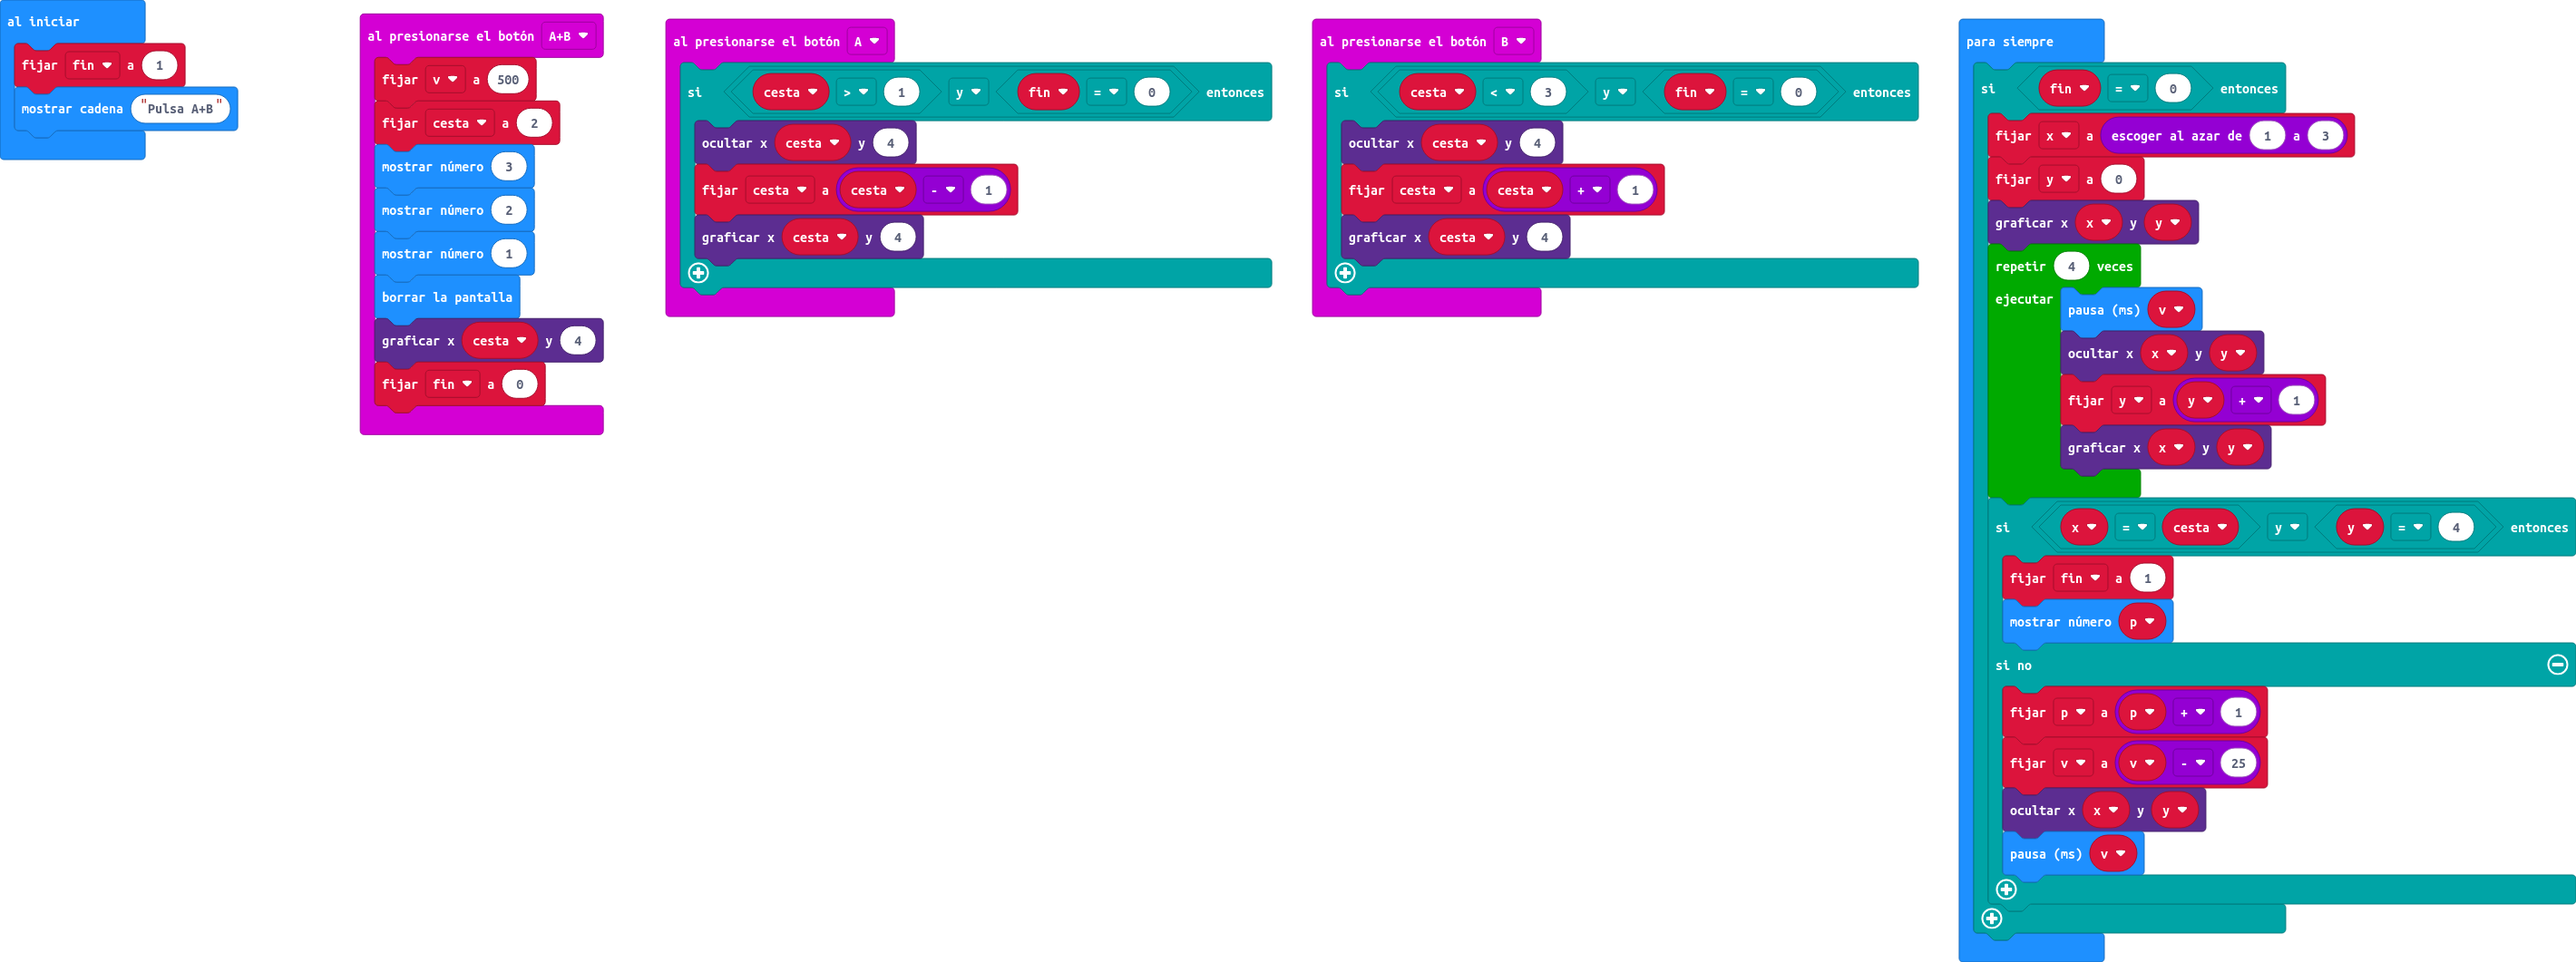
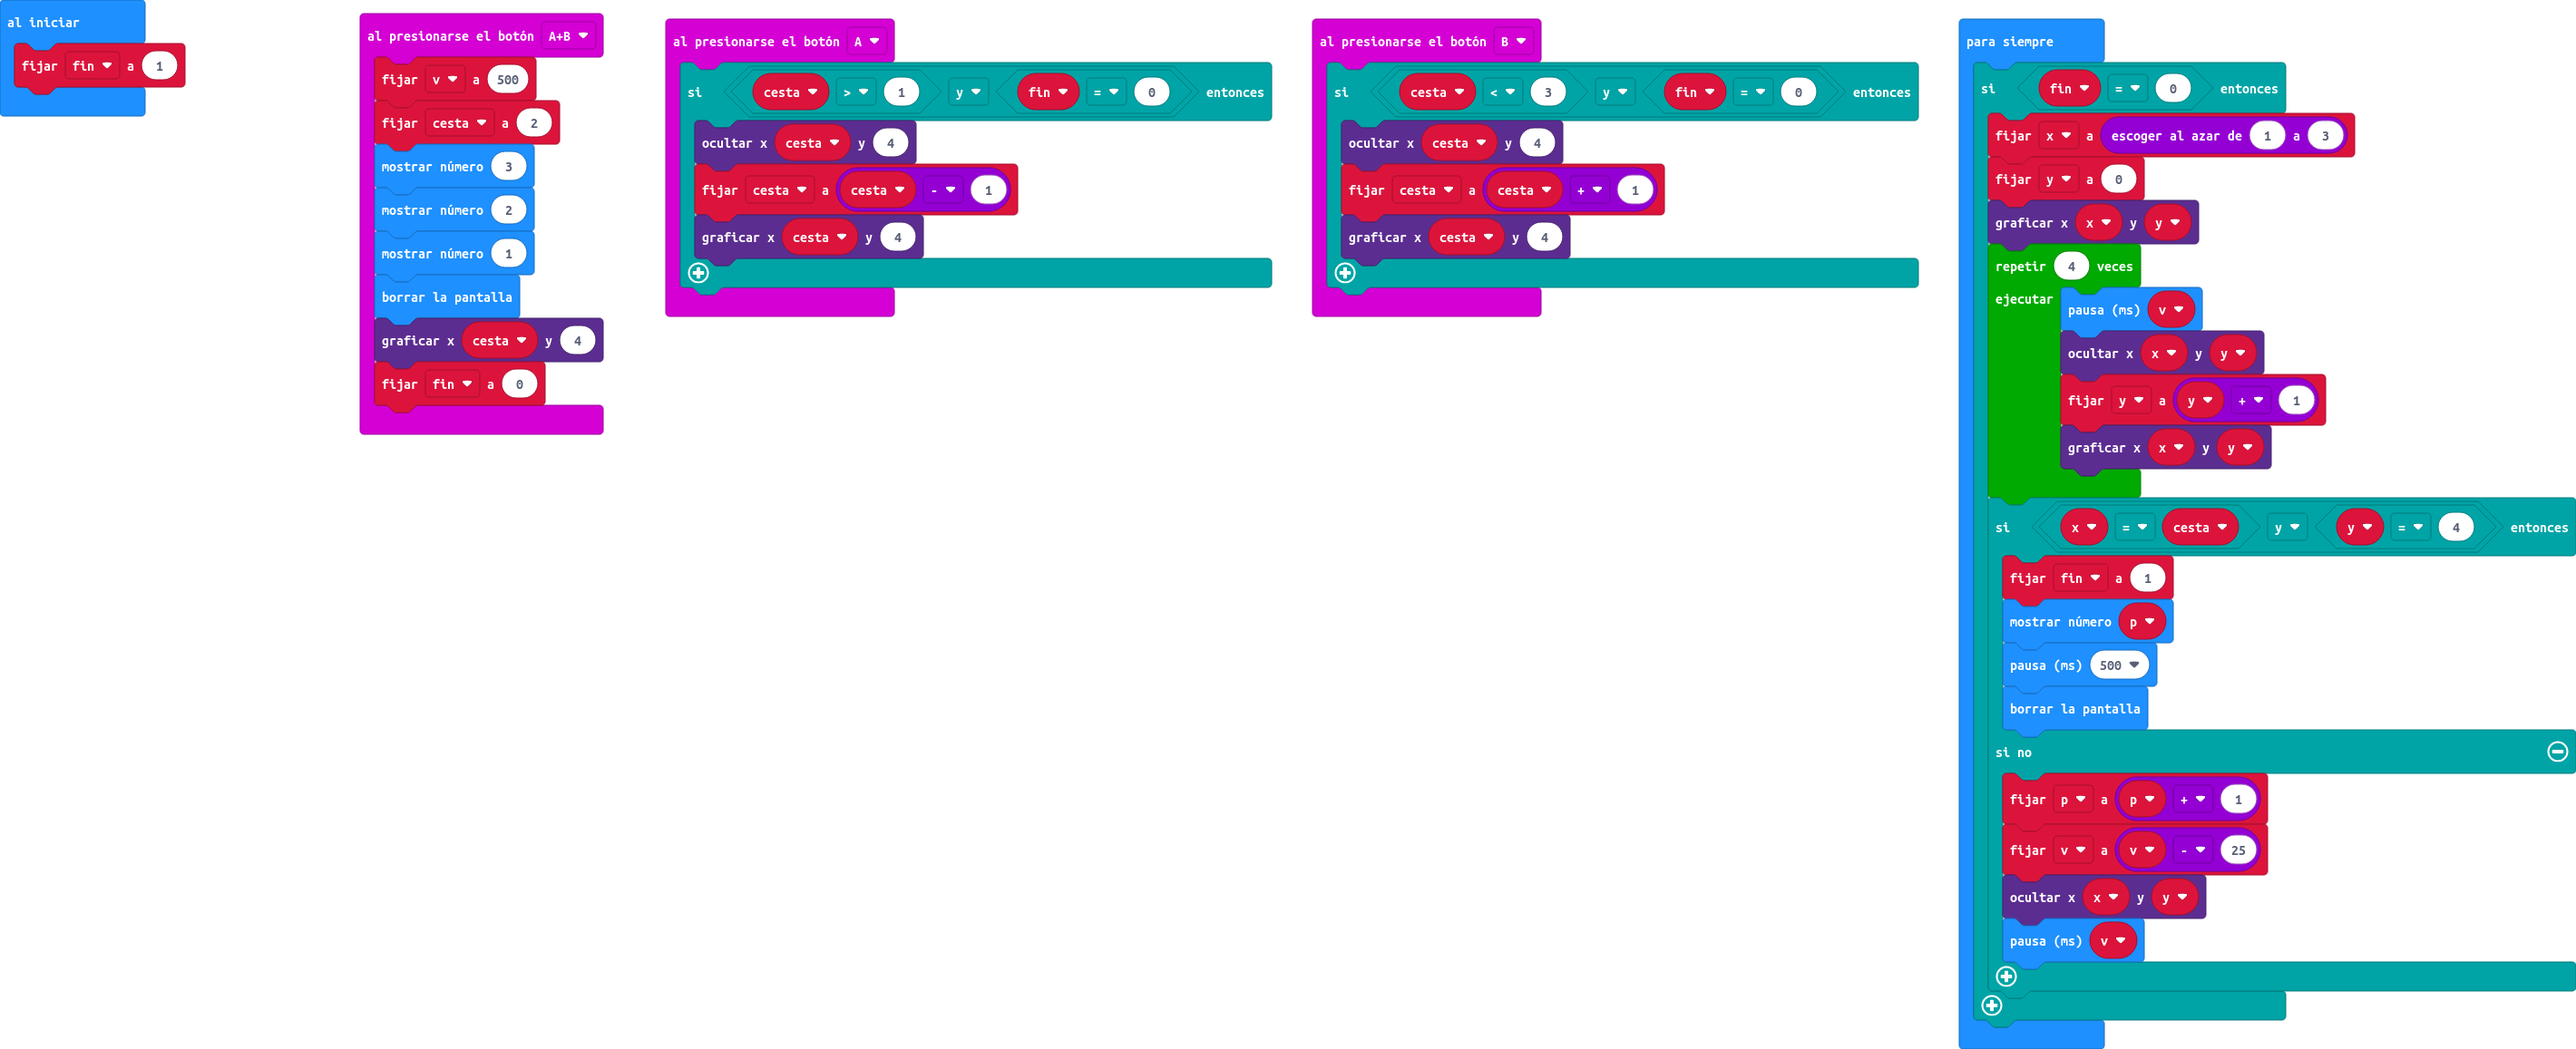
Actualizar main.blocks, main.ts

Changed region(s): [[0.1239, 0.0, 1.0, 0.9953], [0.0, 0.0, 0.093, 0.1866]]

diff --git a/main.ts b/main.ts
@@ -29,7 +29,6 @@ let v = 0
 let cesta = 0
 let fin = 0
 fin = 1
-basic.showString("Pulsa A+B")
 basic.forever(function () {
     if (fin == 0) {
         x = randint(1, 3)
@@ -44,6 +43,8 @@ basic.forever(function () {
         if (x == cesta && y == 4) {
             fin = 1
             basic.showNumber(p)
+            basic.pause(500)
+            basic.clearScreen()
         } else {
             p = p + 1
             v = v - 25
